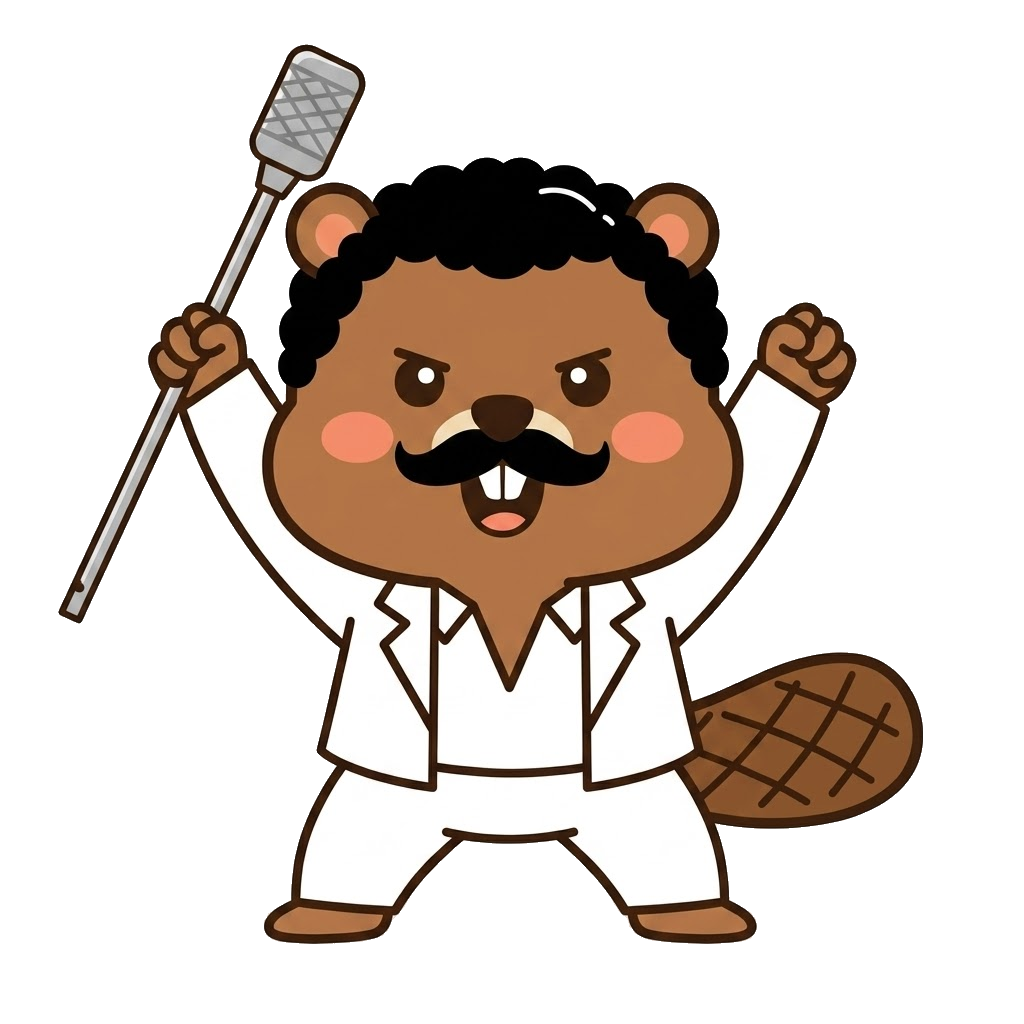
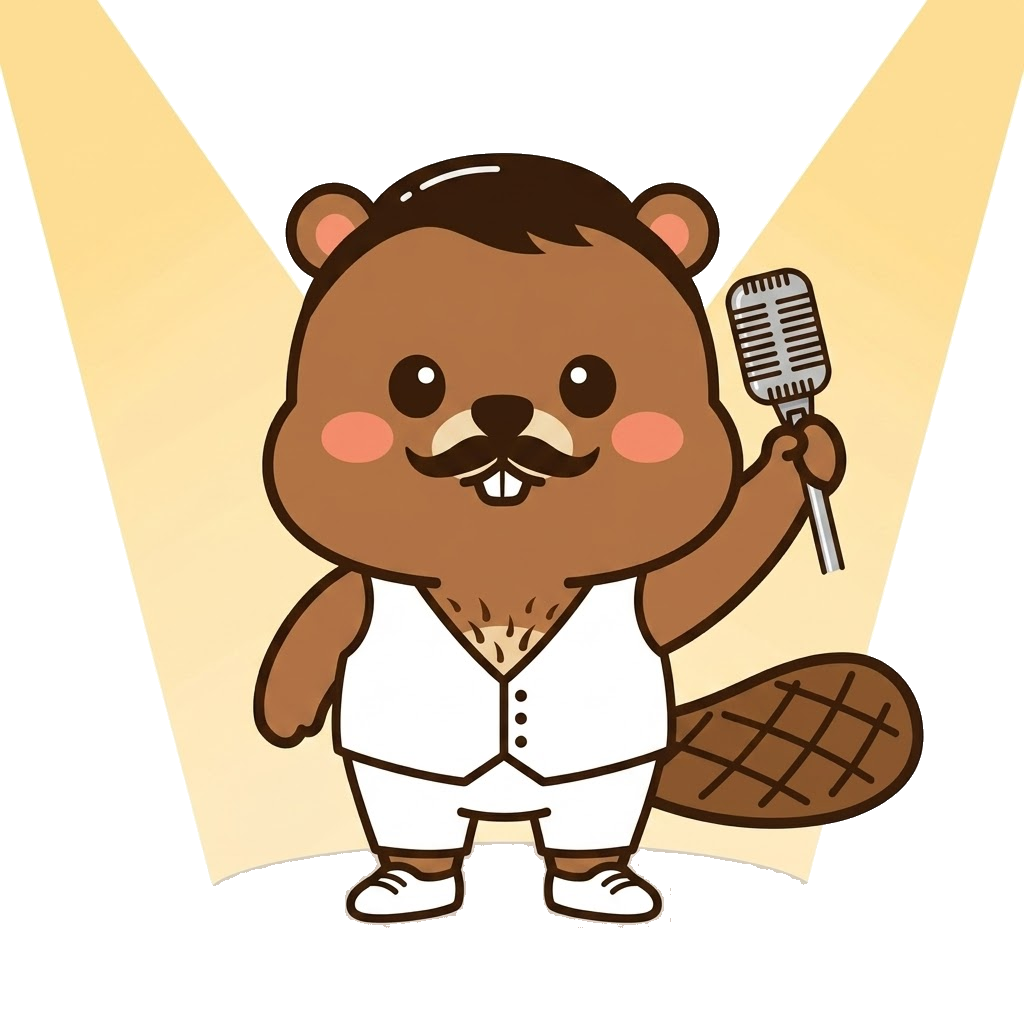
feat(biji): queen v10 라이브 + 파이프라인 exit code 기반 신호 (hook false positive 해소)
queen 이미지 새로 받아 처리 — 사용자 v10 프롬프트 반영 (vest only/all-white/
sparse chest fur/chevron mustache/asymmetric pose/spotlight beams).

검증 룰 완화: 코너 순백 strict 검사 제거 — queen 같이 스포트라이트가 코너까지 닿는
의도된 디자인이 false positive 내는 문제. 가장자리 light gray 잔존만 검사로 노이즈만 잡음.

파이프라인 → exit code 기반 신호: ⚠ 있으면 process.exit(1), pre-commit hook이
exit code로 차단 판단. 이전엔 hook이 stdout "⚠" grep해서 요약 줄 "⚠ 0건 경고"
에서 false positive. 이제 exit code 1개만 본다.

10건 전수 ✅ 통과.

diff --git a/SKILLS_INDEX.md b/SKILLS_INDEX.md
@@ -1,0 +1,69 @@
+# Skills Index
+
+작업 중 빠르게 참고하는 개인 스킬 목차입니다.  
+필요할 때 이 파일만 열어두고, 해당 키워드가 나오면 바로 스킬을 호출하세요.
+
+## 지금 열어두는 법
+
+1. 탐색기에서 `SKILLS_INDEX.md` 클릭
+2. 탭 우클릭 -> `Pin`(고정)
+3. 작업 시작할 때 이 파일 먼저 확인
+
+## 빠른 트리거 (복붙용)
+
+- "이번 요청에 맞는 스킬 먼저 확인하고, 있으면 그 스킬부터 적용해줘."
+- "스킬 후보 1~2개만 먼저 제시하고 바로 실행해줘."
+
+## 프로젝트 전용
+
+- `biji-design` (`.claude/skills/biji-design/SKILL.md`)
+  - UI/랜딩/히어로/컬러/톤/카드 디자인 변경
+  - 키워드: 디자인, 리뉴얼, 톤, 색, 히어로, card, CTA
+
+## 개인 커스텀
+
+- `research` (`C:/Users/User/.claude/skills/research/SKILL.md`)
+  - 리서치팀 형태 멀티에이전트 조사/분석
+  - 키워드: 리서치, 시장조사, 기업 분석
+
+## Cursor 기본 스킬
+
+- `canvas`
+  - 분석 결과/표/시각 결과물을 캔버스로 정리할 때
+- `loop`
+  - 주기 실행, 폴링, 반복 작업 자동화
+- `sdk`
+  - Cursor SDK(Typescript/Python) 연동 코드 작업
+- `babysit`
+  - PR 코멘트/충돌/CI를 돌면서 머지 준비
+- `split-to-prs`
+  - 큰 변경을 작은 PR 단위로 쪼갤 때
+- `create-subagent`
+  - 서브에이전트 실행 구조를 만들거나 정리할 때
+- `create-skill`
+  - 새 스킬 만들 때
+- `create-rule`
+  - 규칙(RULE/AGENTS) 설계/추가
+- `create-hook`
+  - Cursor hook 자동화 만들 때
+- `update-cursor-settings`
+  - Cursor 설정(`settings.json`) 변경
+- `statusline`
+  - CLI 상태줄 커스터마이즈
+- `shell`
+  - 쉘 중심 자동화/명령 패턴
+- `migrate-to-skills`
+  - 기존 프롬프트/룰을 스킬로 이관
+- `update-cli-config`
+  - Cursor CLI 설정 변경
+
+## 작업 시작 체크리스트 (10초)
+
+- 이번 요청이 `디자인 / 리서치 / 반복 / 설정 / PR` 중 어디에 가까운가?
+- 해당 섹션 스킬이 있으면 먼저 적용하도록 요청했는가?
+- 없으면 일반 진행 + 필요 시 새 스킬화 후보로 기록
+
+## 메모
+
+- 스킬이 많아지면 "자주 쓰는 5개"만 위로 올리세요.
+- 한 달에 1번 안 쓰는 스킬은 아카이브 섹션으로 이동하세요.
